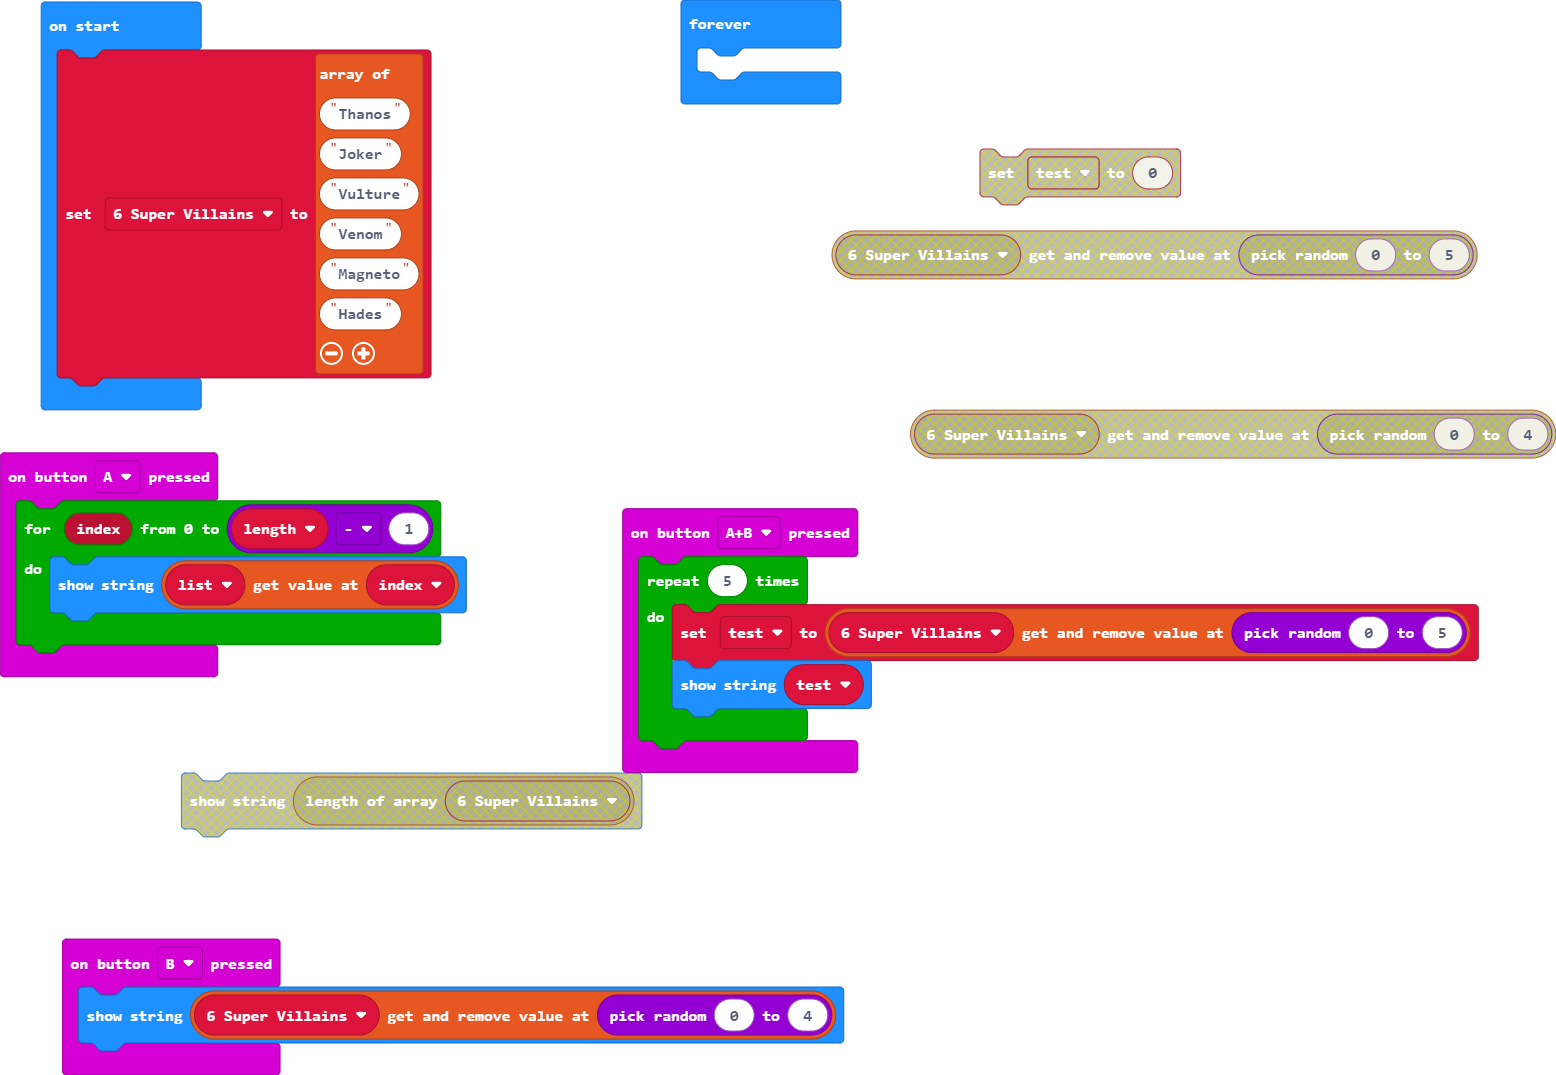
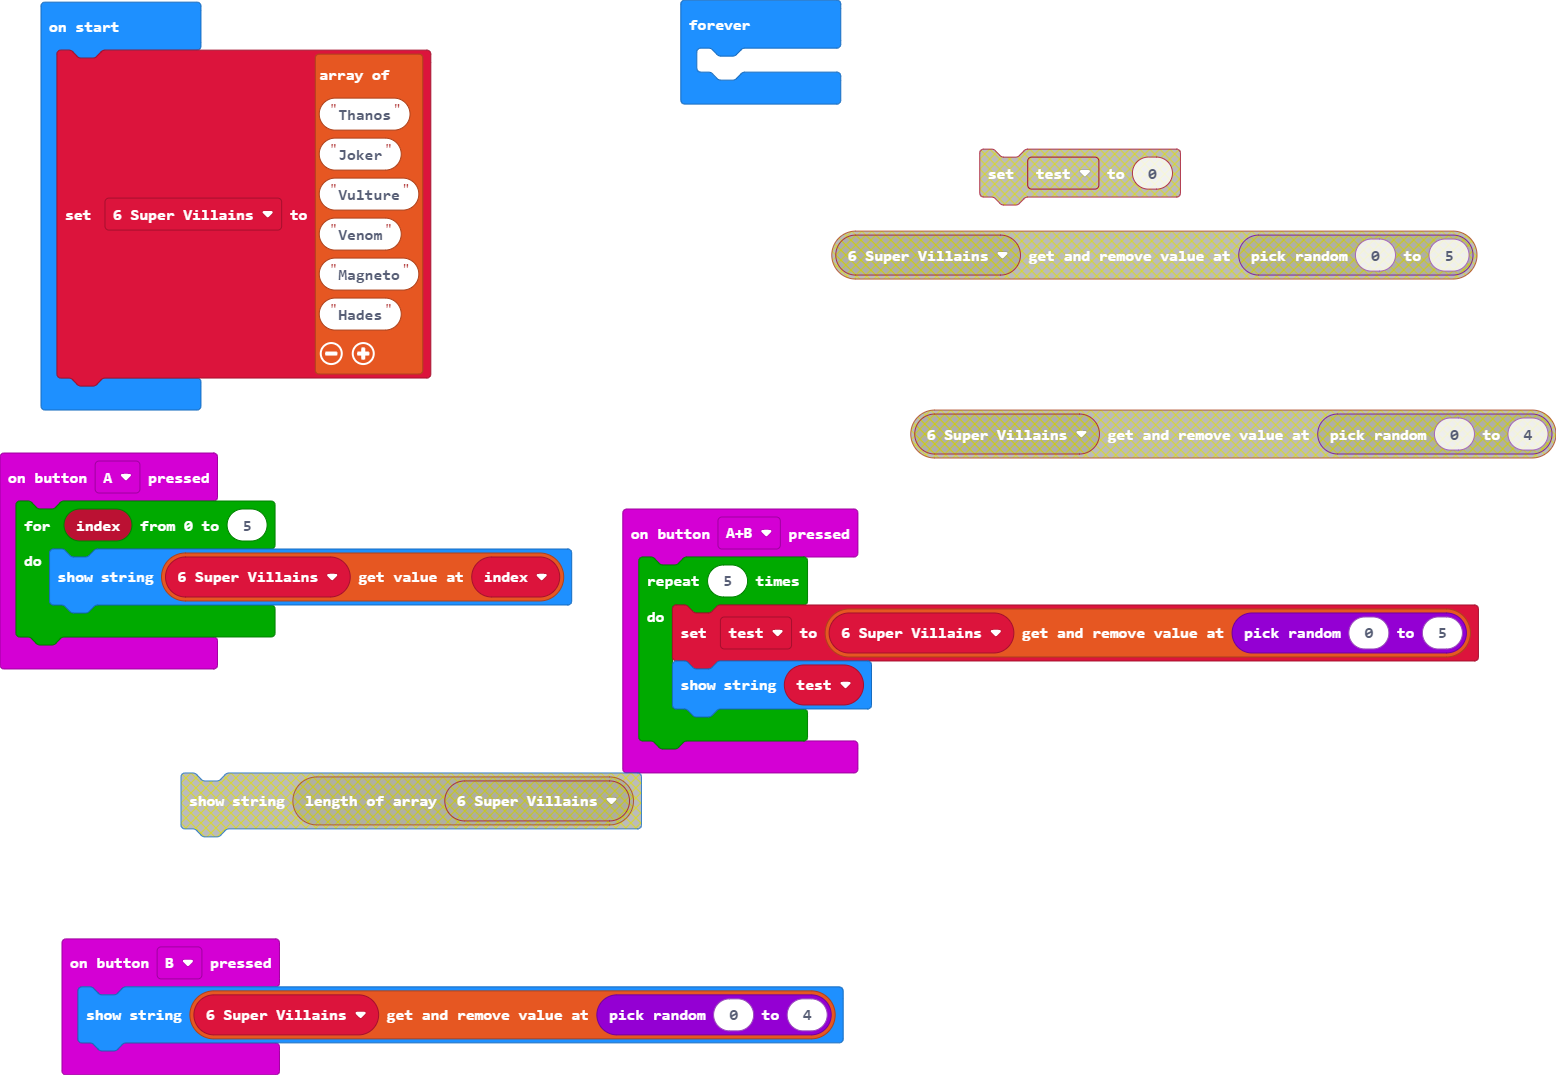
Update main.blocks, main.ts

diff --git a/main.ts b/main.ts
@@ -1,8 +1,6 @@
 input.onButtonPressed(Button.A, function () {
-    let length = 0
-    for (let index = 0; index <= length - 1; index++) {
-        let list: number[] = []
-        basic.showString("" + (list[index]))
+    for (let index = 0; index <= 5; index++) {
+        basic.showString("" + (_6_Super_Villains[index]))
     }
 })
 input.onButtonPressed(Button.AB, function () {
